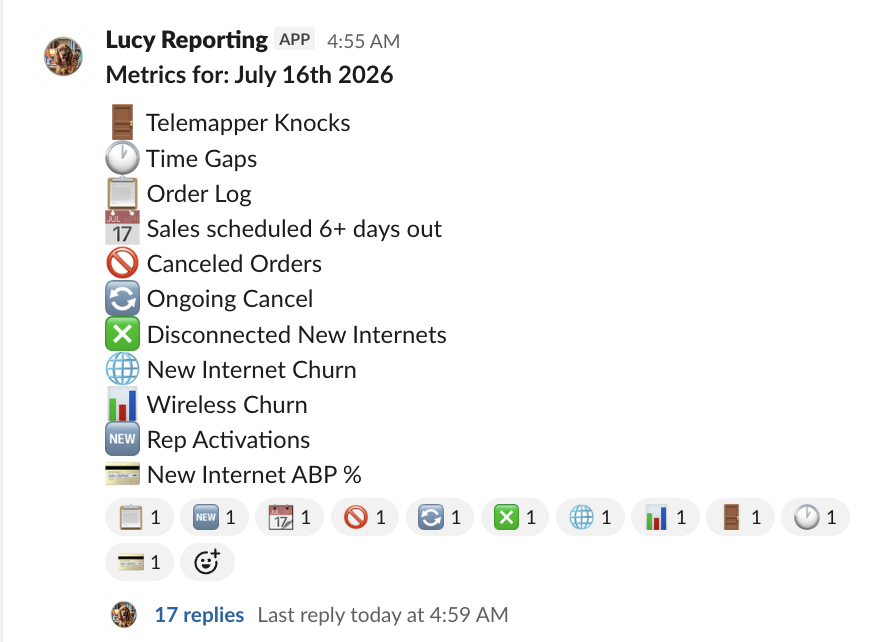
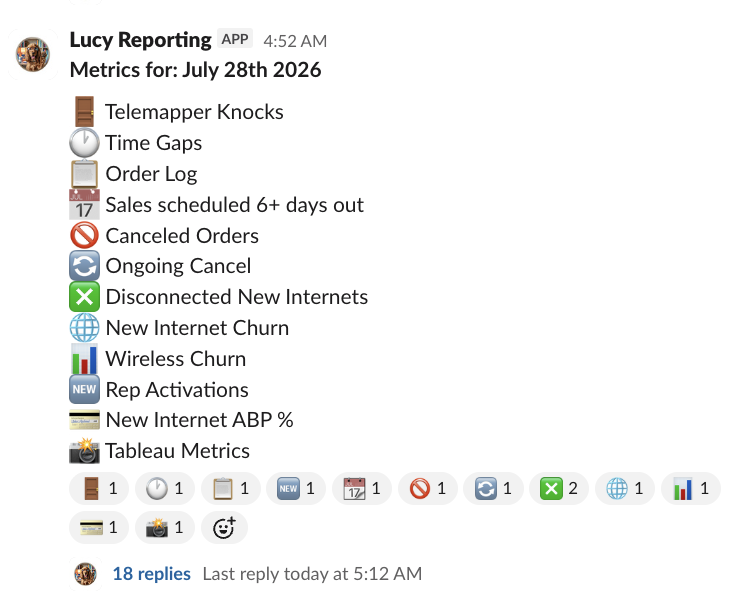
office-metrics card: rename to "D2D Office Daily Metrics", drop tableau section, new screenshot

diff --git a/automations/dashboard.py b/automations/dashboard.py
@@ -1268,7 +1268,7 @@ def _office_metrics_card() -> dict:
         if not (ch in _seen or _seen.add(ch)))
     return {
         "id": "office-metrics",
-        "name": "Office Daily Metrics",
+        "name": "D2D Office Daily Metrics",
         "creator": "Megan",
         "emoji": "📈",
         "color": "#8B5CF6",
@@ -1300,12 +1300,7 @@ def _office_metrics_card() -> dict:
             "• 💳 New Internet ABP %\n"
             "• 📸 Tableau Metrics (screenshot of the ATT TRACKER Metrics view, scoped to the office)\n\n"
             "WHEN IT RUNS\n"
-            "Daily in the 4am batch, each office in turn.\n\n"
-            "ABOUT THE TABLEAU SCREENSHOT\n"
-            "The first office to run captures EVERY office's shot in one Tableau "
-            "login and caches them for the day; the rest just post their image "
-            "from that cache. So the shot costs one login for the whole batch, "
-            "not one per office."),
+            "Daily in the 4am batch, each office in turn."),
         "assignees": ["Lucy 1"],
         "schedule": {
             "frequency": "daily",
